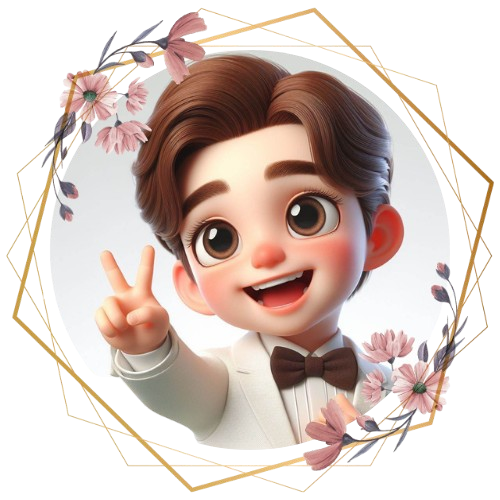
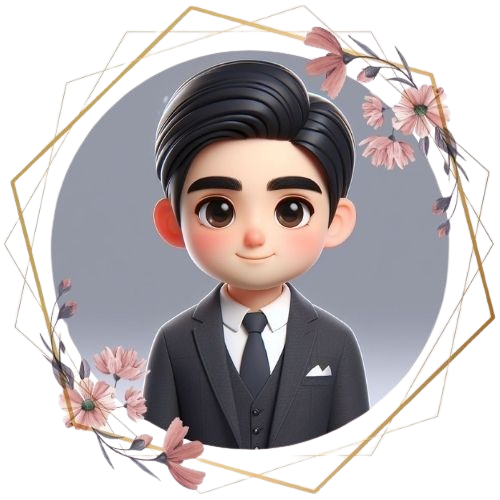
update image mempelai

diff --git a/src/App.js b/src/App.js
@@ -9,6 +9,7 @@ import { FontAwesomeIcon } from '@fortawesome/react-fontawesome';
 import {
   faCalendar,
   faHome,
+  faCalendarDay,
   faComments,
   faClock,
   faMap,
@@ -19,7 +20,7 @@ import {
 import Fireworks from 'react-canvas-confetti/dist/presets/pride'
 import IG from './images/instagram.svg';
 import mempelai from './images/mempelai.png';
-import countdown from './images/countdown.png';
+// import countdown from './images/countdown.png';
 // main
 import Cincin1 from './images/cincin1.png';
 import WelcomeModal from './Welcome.js';
@@ -183,13 +184,14 @@ function App() {
           </li>
           <li className="nav-item">
             <a className="nav-link" href="#mempelai">
-              <img width={25} src={mempelai} alt="mempelai" />
+              <img width={24} src={mempelai} alt="mempelai" />
               <span className="d-block" style={{color: "#EEE", fontSize: 0.7 + "rem"}}>Mempelai</span>
             </a>
           </li>
           <li className="nav-item">
             <a className="nav-link" href="#countdown">
-              <img width={25} src={countdown} alt="countdown" />
+              {/* <img width={25} src={countdown} alt="countdown" /> */}
+              <FontAwesomeIcon icon={faCalendarDay} color="#EEE" />
               <span className="d-block" style={{color: "#EEE", fontSize: 0.7 + "rem"}}>Tanggal</span>
             </a>
           </li>
@@ -240,7 +242,7 @@ function App() {
             <img data-aos="fade-up" data-aos-delay="500" data-aos-duration="1000" width="70%" src={Bismillah} alt="bismillah"  />
             
             <h3 data-aos="fade-up" data-aos-delay="500" data-aos-duration="1000" style={{fontSize: "1.6rem", color: "#683448", marginTop: 20}}>Assalamu&apos;alaikum Wr. Wb.</h3>
-            <p data-aos="fade-up" data-aos-delay="500" data-aos-duration="1000" className='mb-2' style={{padding: "4px 20px"}}>
+            <p data-aos="fade-up" data-aos-delay="750" data-aos-duration="1000" className='mb-2' style={{padding: "4px 20px"}}>
               Tanpa mengurangi rasa hormat. Kami mengundang Bapak/Ibu/Saudara/i serta Kerabat sekalian untuk menghadiri acara Pernikahan kami:
             </p>
             <div className="position-relative">
@@ -258,7 +260,7 @@ function App() {
                 <div data-aos="fade-up" data-aos-delay="750" data-aos-duration="2000" style={{color: "#BF9B73", fontSize: "1.2rem"}}>
                   Putri kedua dari <br /><font className="nama-ortu">Bapak Taufik Hidayat &amp; Ibu Yoyoh</font>
                 </div>
-                <div  data-aos="zoom-in" data-aos-delay="1500" data-aos-duration="2000"  id="social-media-novi">
+                <div  data-aos="zoom-in" data-aos-delay="1200" data-aos-duration="2000"  id="social-media-novi">
                   <ul className="fh5co-social-icons">
                     <li><a target="_blank" rel='noreferrer' href="https://www.instagram.com/novinurkom"><img width={15} src={IG} alt="instagram" />&nbsp;&nbsp;novinurkom</a></li>
                   </ul>
@@ -297,7 +299,7 @@ function App() {
                 <div data-aos="fade-up" data-aos-delay="750" data-aos-duration="2000" style={{color: "#BF9B73", fontSize: "1.2rem"}}>
                   Putra pertama dari <br /><font className="nama-ortu">Bapak Yul Haidir &amp; Ibu Suparti</font>
                 </div>
-                <div data-aos="zoom-in" data-aos-delay="1500" data-aos-duration="2000"  id="social-media-dika">
+                <div data-aos="zoom-in" data-aos-delay="1200" data-aos-duration="2000"  id="social-media-dika">
                   <ul className="fh5co-social-icons">
                     <li><a target="_blank" rel='noreferrer' href="https://www.instagram.com/al.haidirr"><img width={15} src={IG} alt="instagram" />&nbsp;&nbsp;al.haidirr</a></li>
                   </ul>
@@ -381,7 +383,7 @@ function App() {
                 </svg>
               </div>
             </div>
-            <Card data-aos="zoom-in" data-aos-delay="1000" data-aos-duration="1000" id='acara-akad'>
+            <Card data-aos="zoom-in" data-aos-delay="1250" data-aos-duration="1000" id='acara-akad'>
               <h1 style={{fontSize: "1.4rem", fontWeight: 700}}>AKAD</h1>
               <hr />
               <table className='table table-borderless m-0 p-0 w-100' id='table-acara-akad'>

diff --git a/src/Petal.scss b/src/Petal.scss
@@ -8,7 +8,7 @@
 .petal {
 	position: fixed;
 	width: 100%;
-    top: -300px;
+    top: -250px;
 	z-index: 200;
     text-align: center;
 }
@@ -151,41 +151,24 @@
 }
 
 .petal span:nth-of-type(4n+3) {
-	width: 7px !important;
-    height: 8.5px !important;
+	width: 9px !important;
+    height: 10.5px !important;
 	box-shadow: 1px 1px 6px #fc7bd1 !important;
 }
 .petal span:nth-of-type(n) {
 	height: 16px;
-	width: 23px;
+	width: 17px;
 }
 
 .petal span:nth-of-type(2n+1) {
 	height: 11px;
-	width: 16px;
+	width: 14.5px;
 }
 
 .petal span:nth-of-type(3n+2) {
-	height: 17px;
+	height: 18px;
 	width: 23px;
 }
-
-/* animation-duration */
-// .petal span:nth-of-type(4n+1) {
-// 	animation-duration: 24s;
-// }
-
-// .petal span:nth-of-type(4n+2) {
-// 	animation-duration: 33s;
-// }
-
-// .petal span:nth-of-type(4n+3) {
-// 	animation-duration: 29s;
-// }
-
-// .petal span:nth-of-type(4n+4) {
-// 	animation-duration: 28s;
-// }
 
 /* animation */
 @keyframes fallingSakura1 {
@@ -196,6 +179,7 @@
 
 	5% {
 		top: 10px;
+		opacity: 1;
 	}
 	
 	40% {
@@ -217,6 +201,7 @@
 
 	5% {
 		top: 10px;
+		opacity: 1;
 	}
 
 	40% {
@@ -238,6 +223,7 @@
 
 	5% {
 		top: 30px;
+		opacity: 1;
 	}
 
 	40% {
